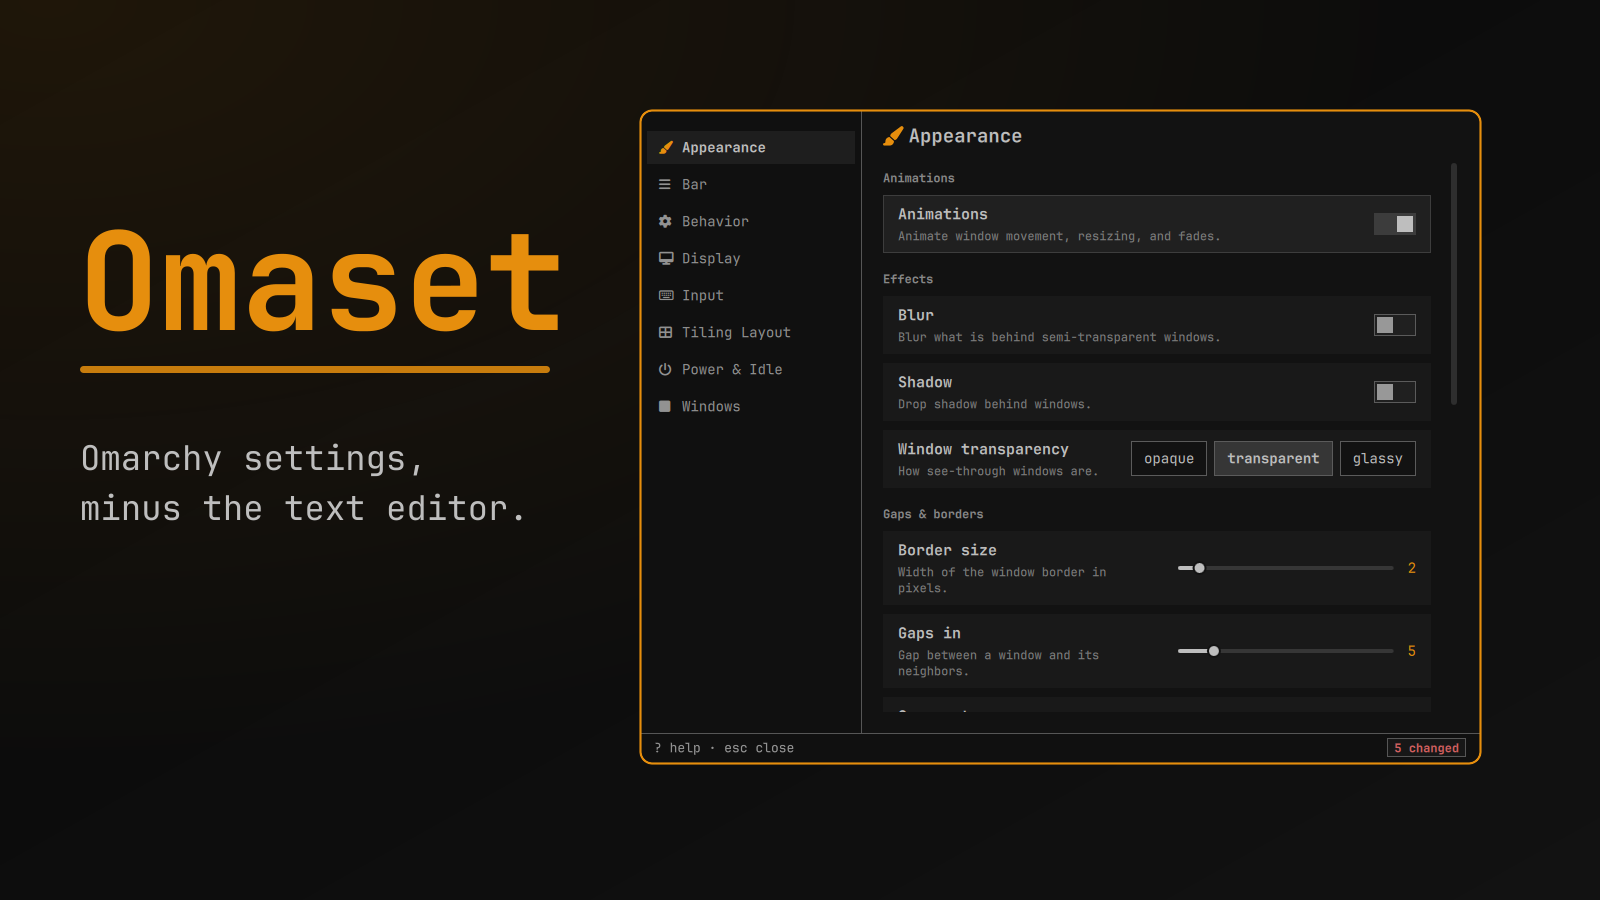
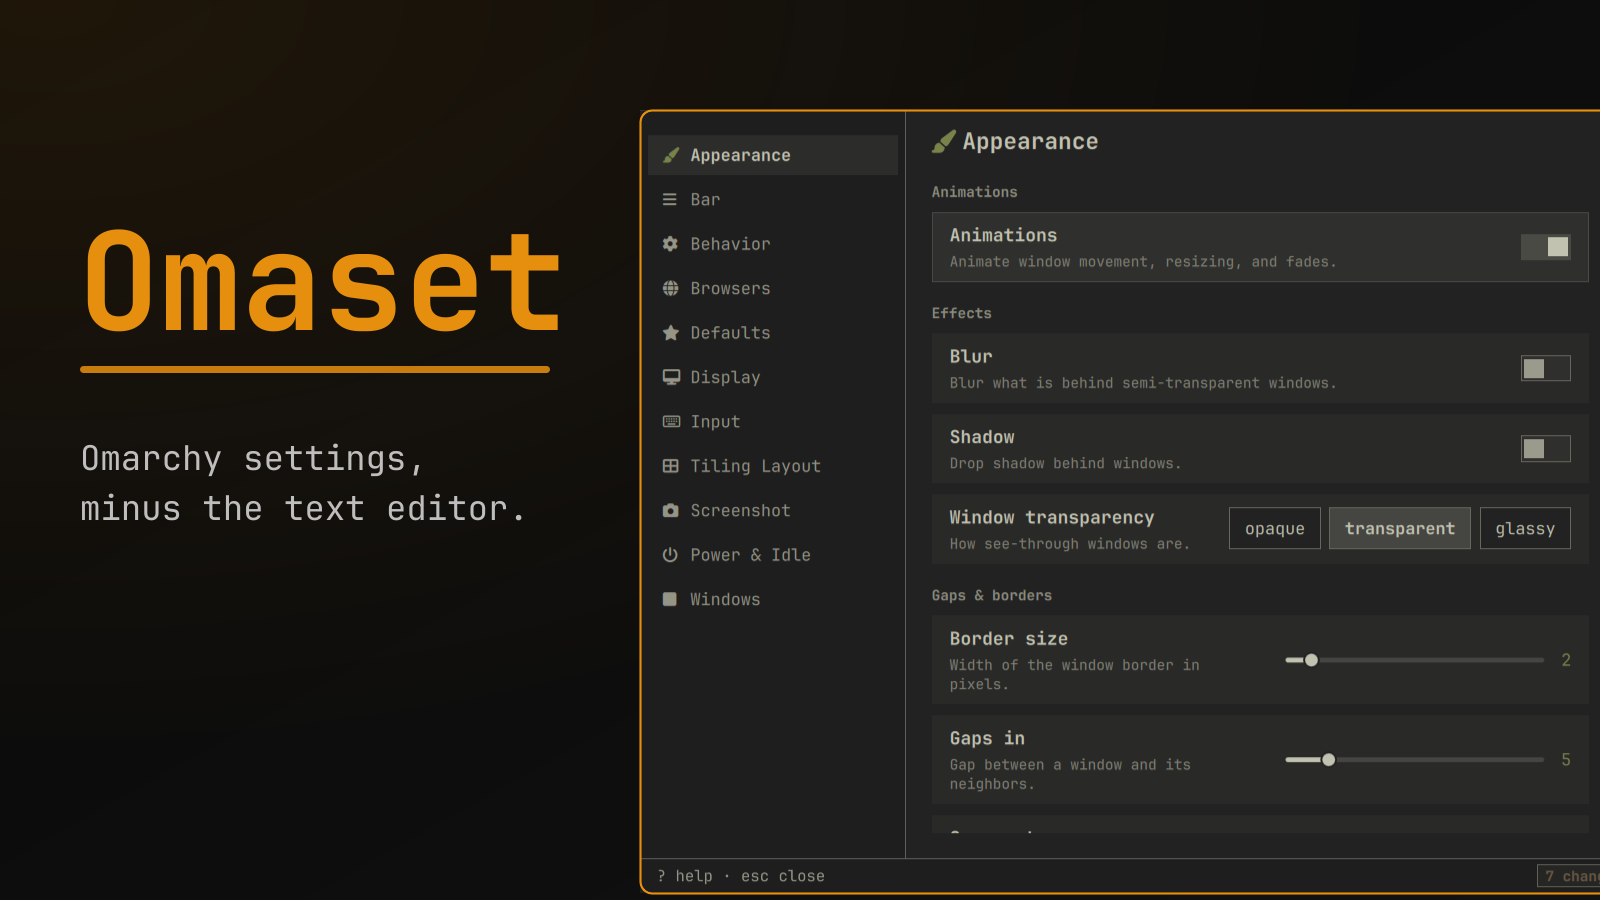
release: 0.3.0 messaging, assets, and docs

diff --git a/README.md b/README.md
@@ -11,17 +11,23 @@
   <img src="media/banner.png" alt="The Omaset wordmark and tagline, above a strip of the Omarchy bar" width="880">
 </p>
 
-Your config files are the source of truth. Omaset puts every setting within reach — of you, and of your agent. Update one value where it lives. Everything else stays as you left it. See what's changed. Take it back.
+Your config files are the source of truth. Omaset lets you manage every Omarchy setting in one place — a window for your hands, a CLI for your scripts, an MCP server for your agent. It doesn’t just toggle values; it surfaces what Omarchy hides and orchestrates how tools work together — like routing sites to browsers. Touch one value where it lives. Everything else stays exactly as you left it. See what changed. Take it back.
 
-**Welcome the agents.** Your agent gets the same settings you do, as tools it can call. It searches for a setting by name, reads what it's set to, changes it. No parsing files, no guessing, no shell incantations — just the same settings, in front of both of you.
+That's not a plugin. That's the Omarchy way, made visible.
 
-**Made for 4.5.** The new desktop is more familiar to people coming from Windows or macOS, used to a settings panel. Omaset does the same for settings — a view for humans, while your agent keeps working directly with the files.
+**Welcome the agents.** Your agent gets the same knobs you do — search, read, change, undo. No parsing files, no guessing, no shell incantations. Just the same settings, in front of both of you.
 
-**Speaks your language.** Every label, description, and option in all 50 Omarchy languages.
+**Made for 4.5.** Omarchy 4.5 feels familiar to anyone coming from Windows or macOS. Omaset does the same for settings: a view for humans, while your agent keeps working straight with the files.
 
-**Checked before it lands.** Every change is validated against the live config, and Omaset puts it back if Hyprland won't load. `changed` shows what's not stock, `history` shows how it got there.
+**Speaks your language.** Every label, description, and option — all 50 Omarchy languages. No second-class citizens.
 
-**No magic numbers.** Your configuration file still says `300` — that's seconds to the computer. Omaset shows you `5 min` — that's how you think about it. Same for times and every other choice. Made readable for humans, not just machines.
+**Checked before it lands.** Every change is validated against the live config; if Hyprland won’t load it, Omaset puts it back. `changed` shows what’s not stock, `history` shows how you got there.
+
+**Goes beyond toggles.** Some panels surface settings Omarchy never exposed as commands — screenshots (Omasnap). Others manage how tools work together — per-URL browser routing (Browsers).
+
+**No magic numbers.** Your file still says `300` — seconds to the computer, `5 min` to you. Same for times and every other choice. Readable for humans, not just machines.
+
+**One engine, three faces.** The window, the CLI, and your agent share one core — add a backend and all three pick it up.
 
 <p align="center">
   <img src="media/window.png" alt="The Omaset settings window" width="800">
@@ -53,27 +59,29 @@ Click the Omaset icon in your bar, or run `omaset ui`.
 
 ## What it manages
 
-Covers appearance, layout, bar, input, windows, power, display, behavior, and default applications. One panel per area in the table below. [More backends](docs/backends.md) are added over time.
+Covers appearance, bar, behavior, browsers, defaults, display, input, layout, omasnap, power, and windows. One panel per area in the table below. [More backends](docs/backends.md) are added over time.
 
 | Panel | Examples |
 |---|---|
 | Appearance | gaps, borders, rounding, blur, shadow, groupbar, corners, transparency |
-| Tiling Layout | default layout, dwindle/scrolling/floating, scrolling width, dock |
 | Bar | position, background |
-| Input | mouse, trackpad, key repeat, numlock |
-| Windows | full-width & tiled-fullscreen styles, single-window square |
-| Power & Idle | screen and lock timeouts |
-| Display | night light on/off, schedule (start & end), temperature |
-| Omasnap | editor mode/window/backdrop, autosave, screenshot directory and filename pattern |
-| Defaults | agent, terminal, editor, dictation (as in Omarchy's Setup > Defaults) |
-| Browsers | default browser, browser-router config (browser list, labels, domain routing rules) |
 | Behavior | focus, tearing, cursor hiding |
+| Browsers | default browser, browser-router config (browser list, labels, domain routing rules) — route URLs to the right browser, prompt when unsure |
+| Defaults | agent, terminal, editor, dictation (as in Omarchy's Setup > Defaults) |
+| Display | night light on/off, schedule (start & end), temperature |
+| Input | mouse, trackpad, key repeat, numlock |
+| Omasnap | editor mode/window/backdrop, autosave, screenshot directory and filename pattern — settings Omarchy doesn't expose as commands |
+| Power & Idle | screen and lock timeouts |
+| Tiling Layout | default layout, dwindle/scrolling/floating, scrolling width, dock |
+| Windows | full-width & tiled-fullscreen styles, single-window square |
+
 
 ## Why Omaset
 
 - **One place to see it all.** Every panel, searchable.
 - **Three ways in, same settings.** Agent, window, command line.
 - **Checked before it lands.** Validation, then applied in place — nothing rewritten wholesale.
+- **Goes beyond toggles.** Some panels surface settings Omarchy never exposed as commands (screenshots); others manage how tools work together (per-URL browser routing).
 - **Styled to match.** Colors and shapes come from your theme.
 
 <p align="center">
@@ -148,7 +156,7 @@ One small core. A set of backends that all share a common interface, so the engi
 - **The window** — keyboard-first, uses Omarchy styling.
 - **The command line** — `omaset get`, `set`, `changed`, `undo`.
 
-Add a setting or a backend, and all three pick it up. That's the whole design.
+Add a setting or a backend, and the window, the CLI, and your agent all pick it up — new areas land without touching the core. That's the whole design.
 
 ## Next steps
 

diff --git a/docs/agents.md b/docs/agents.md
@@ -72,6 +72,19 @@ omaset help <id>             # type, options, range, default, current value
 Keyed settings (per-workspace) take a key argument, e.g.
 `omaset get workspace_layout 2` / `omaset set workspace_layout 3 scrolling`.
 
+## New in 0.3.0
+
+- **Defaults panel** (`defaults`): agent, browser, terminal, editor, dictation,
+  wrapping Omarchy's `omarchy-default-*` commands.
+- **Browsers panel** (`browsers`): default browser plus browser-router config
+  (browser list, labels, domain routing rules). The hidden `browser_*` settings
+  stay in the schema for CLI/MCP (`tracked=false`), and the
+  `omaset browser list|enable|disable|install|set-label|rule-*` commands manage
+  them.
+- **Omasnap panel** (`screenshot`): screenshot configuration Omarchy does not
+  expose as commands.
+- Custom values are first-class: off-list values read back as-is and appear as
+  `Custom` choices; re-setting the current value is a no-op.
 ## Worked example
 
 An agent asked to "make the gaps a bit bigger and turn on blur":

diff --git a/CHANGELOG.md b/CHANGELOG.md
@@ -35,6 +35,11 @@
 - After any selection, keyboard focus returns to the row so j/k/h/l keep
   navigating, and a dropdown can no longer leave the key catcher blocked when
   its row is rebuilt mid-selection.
+- Marketplace listing refreshed: the description now leads with the treasure-hunt
+  hook and the "Omarchy way, made visible" line; the README top section is
+  rewritten in DHH voice and frames Omaset as surfacing what Omarchy hides and
+  orchestrating how tools work together; preview.png is recaptured from the
+  settings window.
 
 
 ## 0.2.3 — 2026-11-10
